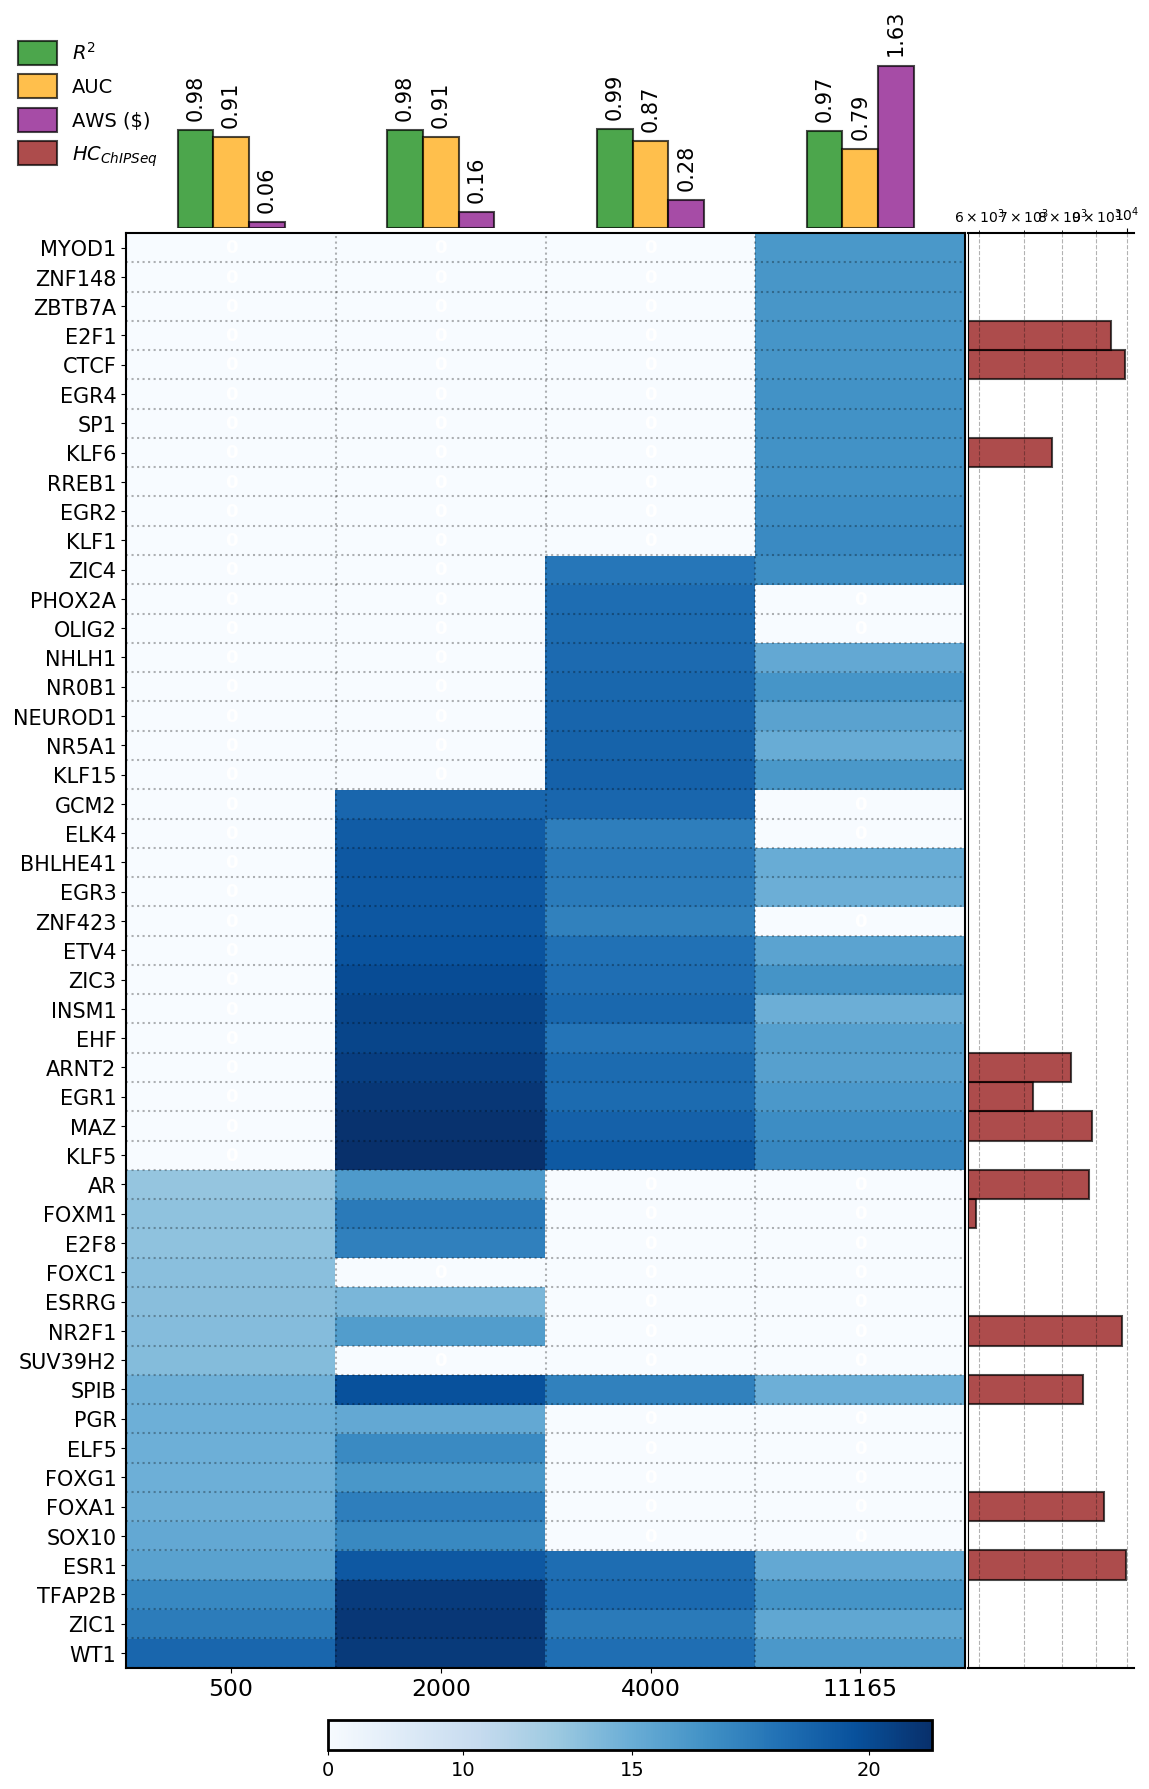
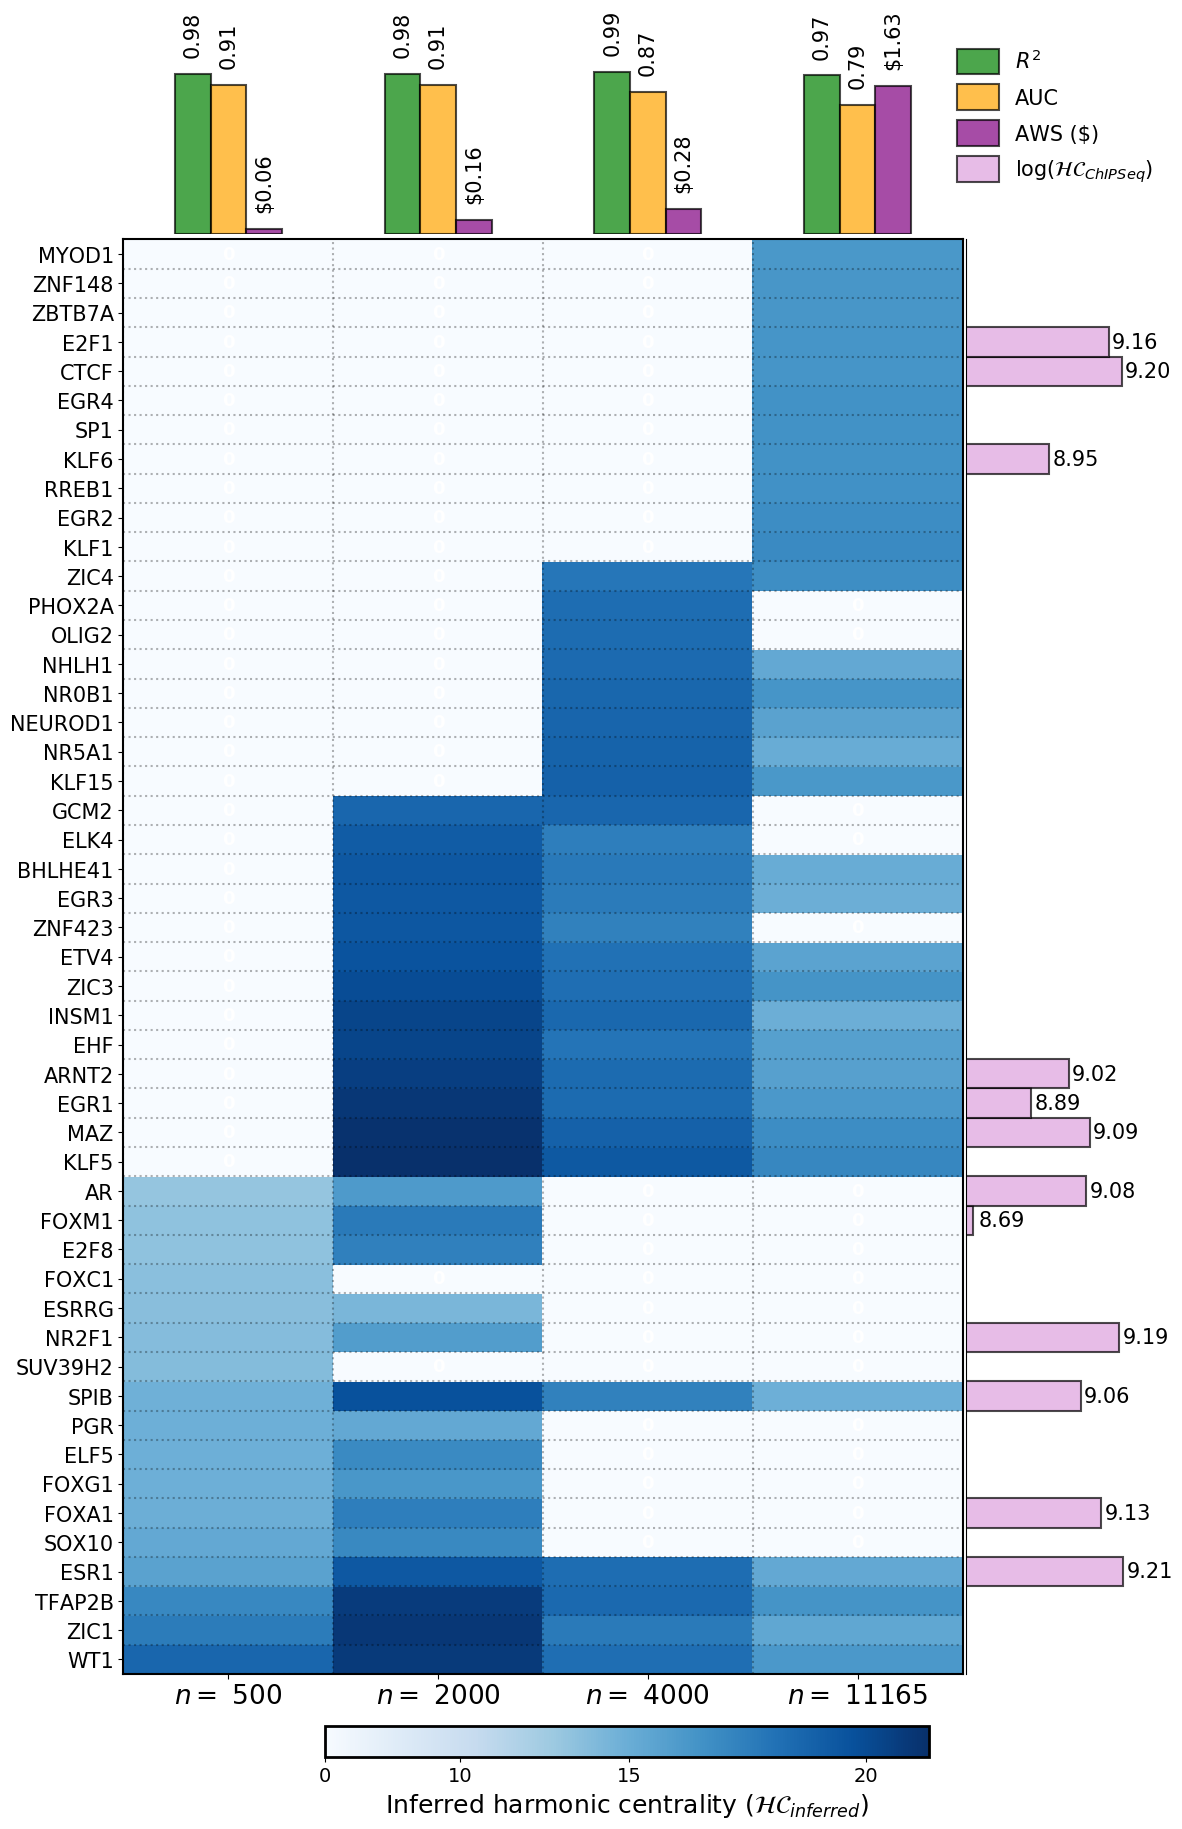
plot updates

diff --git a/ode_net/code/fig_breast_cancer_res.py b/ode_net/code/fig_breast_cancer_res.py
@@ -117,8 +117,8 @@ if __name__ == "__main__":
     
     perf_info = {}
     metrics = ['var_explained', 'AUC','runtime_cost' ]
-    metric_cols = {'var_explained': 'green', 'AUC': 'orange','runtime_cost':'purple', 'true_harm_cent': "darkred"}
-    metric_labels = {'var_explained': r'$R^2$', 'AUC': 'AUC','runtime_cost':'AWS ($)', 'true_harm_cent': r"$HC_{ChIPSeq}$" }
+    metric_cols = {'var_explained': 'green', 'AUC': 'orange','runtime_cost':'purple', 'true_harm_cent': "plum"}
+    metric_labels = {'var_explained': r'$R^2$', 'AUC': 'AUC','runtime_cost':'AWS ($)', 'true_harm_cent': r"$\log(\mathcal{HC}_{ChIPSeq})$" } 
     metrics_extended = ['var_explained', 'AUC','runtime_cost', 'true_harm_cent' ]
 
     leg_general_info = [Patch(facecolor=metric_cols[this_metric], edgecolor= "black", linewidth = 1.5,
@@ -137,10 +137,11 @@ if __name__ == "__main__":
 
     width= 0.17  # the width of the bars
     deltas = [-1, 0, 1]
+    cost_shrinker = 1.8
     
     for this_metric in metrics:
         this_delta = deltas[metrics.index(this_metric)] 
-        this_perf_vals = [perf_info[this_gene][this_metric] for this_gene in all_genes]
+        this_perf_vals = [perf_info[this_gene][this_metric]/cost_shrinker if this_metric == "runtime_cost" else perf_info[this_gene][this_metric] for this_gene in all_genes ]
         ax1.bar(ind  + width*this_delta, this_perf_vals, width = width, 
                         capsize = 5, color = metric_cols[this_metric], alpha = 0.7,  edgecolor = "black", 
                         linewidth = 1.5, align = 'center')
@@ -150,20 +151,27 @@ if __name__ == "__main__":
         this_perf_vals = [perf_info[this_gene][this_metric] for this_gene in all_genes]
         for this_idx in range(len(this_perf_vals)):
             this_val = this_perf_vals[this_idx]
-            ax1.text(this_idx + 0.5 + width*this_delta, this_val + 0.1 , this_val, 
+            this_text = this_val
+            this_height = this_val
+            if this_metric == "runtime_cost":
+                this_text = "${:,.2f}".format(this_val)
+                this_height = this_val/cost_shrinker
+            ax1.text(this_idx + 0.5 + width*this_delta, this_height + 0.1 , this_text, 
                      ha="center", va="bottom", color="black",size = 15, rotation = 90)
     
-    ax1.legend(handles = leg_general_info, loc='upper left', prop={'size': tick_lab_size}, 
-                        ncol = 1,  handleheight=1.5, frameon = False, bbox_to_anchor = (-0.15,1.2))
+    ax1.legend(handles = leg_general_info, loc='upper right', prop={'size': tick_lab_size+1}, 
+                        ncol = 1,  handleheight=1.5, frameon = False,  bbox_to_anchor = (1.25,1.2)) #
 
     print("......")
     print("overlaying true centralities")
     ax2 = fig_breast_cancer.add_subplot(gs[1:11, 5], sharey = ax)     
     ax2.set_frame_on(True)
     ax2.axes.get_yaxis().set_visible(False)
-    ax2.spines['top'].set_linewidth(border_width)
-    ax2.spines['bottom'].set_linewidth(border_width)
+    ax2.axes.get_xaxis().set_visible(False)
     ax2.spines['right'].set_visible(False)
+    ax2.spines['top'].set_visible(False)
+    ax2.spines['bottom'].set_visible(False)
+
     ax2.cla()
 
     true_vals = np.loadtxt(open("C:/STUDIES/RESEARCH/neural_ODE/all_manuscript_models/breast_cancer/all_harm_cent_wide.csv", "rb"), 
@@ -176,20 +184,25 @@ if __name__ == "__main__":
                        color = metric_cols['true_harm_cent'], alpha = 0.7, align = 'center', 
                        edgecolor = "black", linewidth = 1.5)
 
-    
-    #ax2.set_xticklabels(ax2.get_xticks(), ax2.get_xticklabels() ,rotation = 45)
+    for this_top in range(num_tops):
+        this_val = true_vals[this_top]
+        if this_val >0: 
+            ax2.text(this_val + 100, this_top + 0.5, "{:.2f}".format(np.log(this_val)), 
+            ha="left", va="center", color="black",size = 15, rotation = 0)
     ax2.set_xscale("log")
-    ax2.xaxis.tick_top()
-    ax2.grid(visible = True, which = "both", axis = "x", color = "black", 
-            linestyle = "--", alpha = 0.3)
+    
+    #ax2.xaxis.tick_top()
+    
+    #ax2.grid(visible = True, which = "both", axis = "x", color = "black", 
+    #        linestyle = "--", alpha = 0.3)
 
     ax.set_yticks(np.arange(num_tops)+0.5)    
     ax.set_yticklabels(gene_names)
     ax.tick_params(axis='y', labelsize= tick_lab_size+1)
     
     ax.set_xticks(ind)    
-    ax.set_xticklabels(all_genes)
-    ax.tick_params(axis='x', labelsize= tick_lab_size + 3)
+    ax.set_xticklabels([ r"$n=$ "+str(this_tot_gene) for this_tot_gene in all_genes])
+    ax.tick_params(axis='x', labelsize= tick_lab_size + 5)
     
 
     cbar =  fig_breast_cancer.colorbar(c, ax= [ax, ax2], use_gridspec = False,  
@@ -197,7 +210,7 @@ if __name__ == "__main__":
     
     cbar.set_ticks([0 , 10, 15, 20])
     cbar.ax.tick_params(labelsize = tick_lab_size) 
-    #cbar.set_label(r'$\widetilde{D_{ij}}$= '+'Estimated effect of '+ r'$g_j$'+ ' on ' +r"$\frac{dg_i}{dt}$" +' in SIM350', size = ax_lab_size)
+    cbar.set_label("Inferred harmonic centrality " + r'$(\mathcal{HC}_{inferred})$', size = ax_lab_size+3)
     cbar.outline.set_linewidth(2)
     #plt.subplots_adjust(wspace=0, hspace=0)
 
